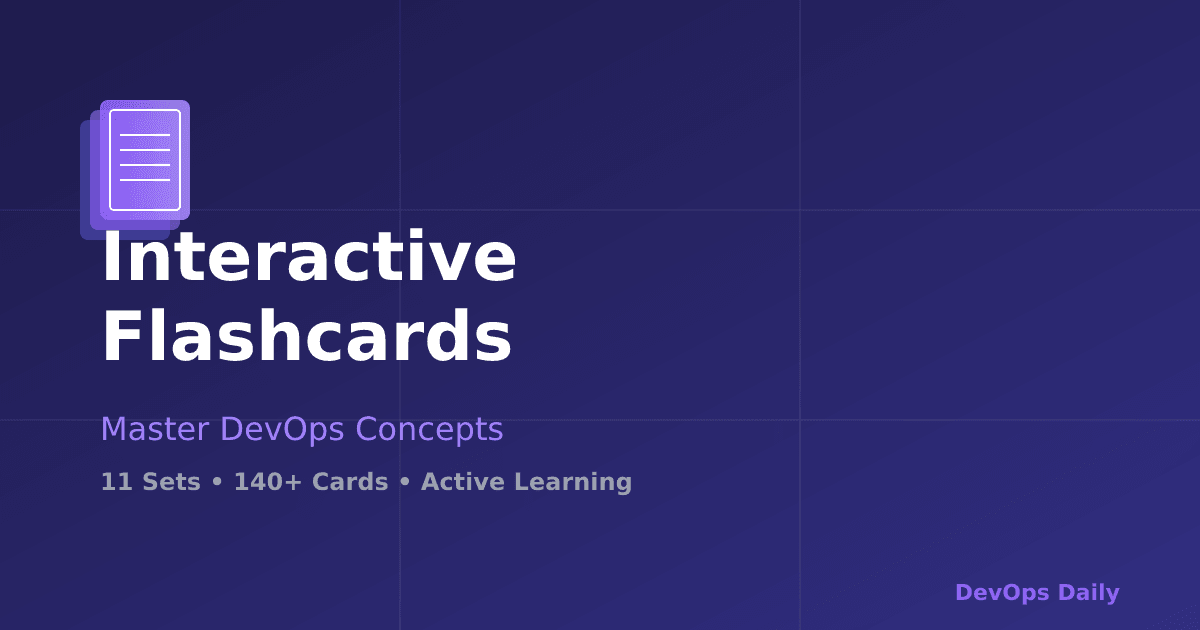
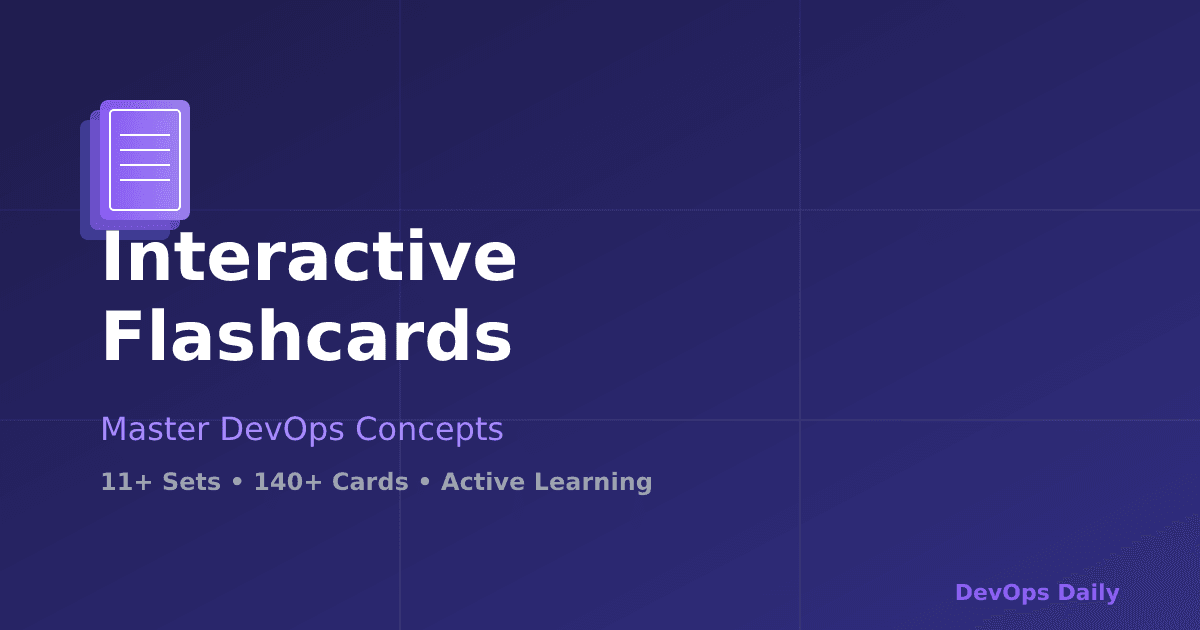
feat: Add mobile swipe hint and update flashcards OG image
- Added mobile swipe hint below progress indicator (sm:hidden)
- Shows "Swipe left/right to navigate cards" with MoveHorizontal icon
- Updated flashcards-og.svg to show "11+ Sets" instead of "11 Sets"
- Regenerated flashcards-og.png with updated text
- Hint only visible on mobile devices to guide touch users

Changed region(s): [[0.0925, 0.754, 0.555, 0.7841], [0.1233, 0.3317, 0.1542, 0.3619], [0.0925, 0.1508, 0.1233, 0.181]]

diff --git a/components/flashcard.tsx b/components/flashcard.tsx
@@ -5,6 +5,7 @@ import { Card } from '@/components/ui/card';
 import { Button } from '@/components/ui/button';
 import { Badge } from '@/components/ui/badge';
 import { RotateCw, Check, X } from 'lucide-react';
+import { MoveHorizontal } from 'lucide-react';
 import { cn } from '@/lib/utils';
 import type { FlashCard } from '@/lib/flashcard-loader';
 
@@ -104,11 +105,18 @@ export function FlashCard({
     <div className="w-full max-w-2xl mx-auto space-y-4 px-4 sm:px-0 sm:space-y-6">
       {/* Progress indicator */}
       {showNavigation && (
-        <div className="flex items-center justify-between text-xs sm:text-sm text-muted-foreground">
-          <span>
-            Card {currentIndex + 1} of {totalCards}
-          </span>
-          <Badge variant="outline">{card.category}</Badge>
+        <div className="space-y-2">
+          <div className="flex items-center justify-between text-xs sm:text-sm text-muted-foreground">
+            <span>
+              Card {currentIndex + 1} of {totalCards}
+            </span>
+            <Badge variant="outline">{card.category}</Badge>
+          </div>
+          {/* Mobile swipe hint - only show on touch devices */}
+          <div className="sm:hidden flex items-center justify-center gap-2 text-xs text-muted-foreground/70 bg-muted/30 rounded-md py-2 px-3">
+            <MoveHorizontal className="h-3 w-3" />
+            <span>Swipe left/right to navigate cards</span>
+          </div>
         </div>
       )}
 
